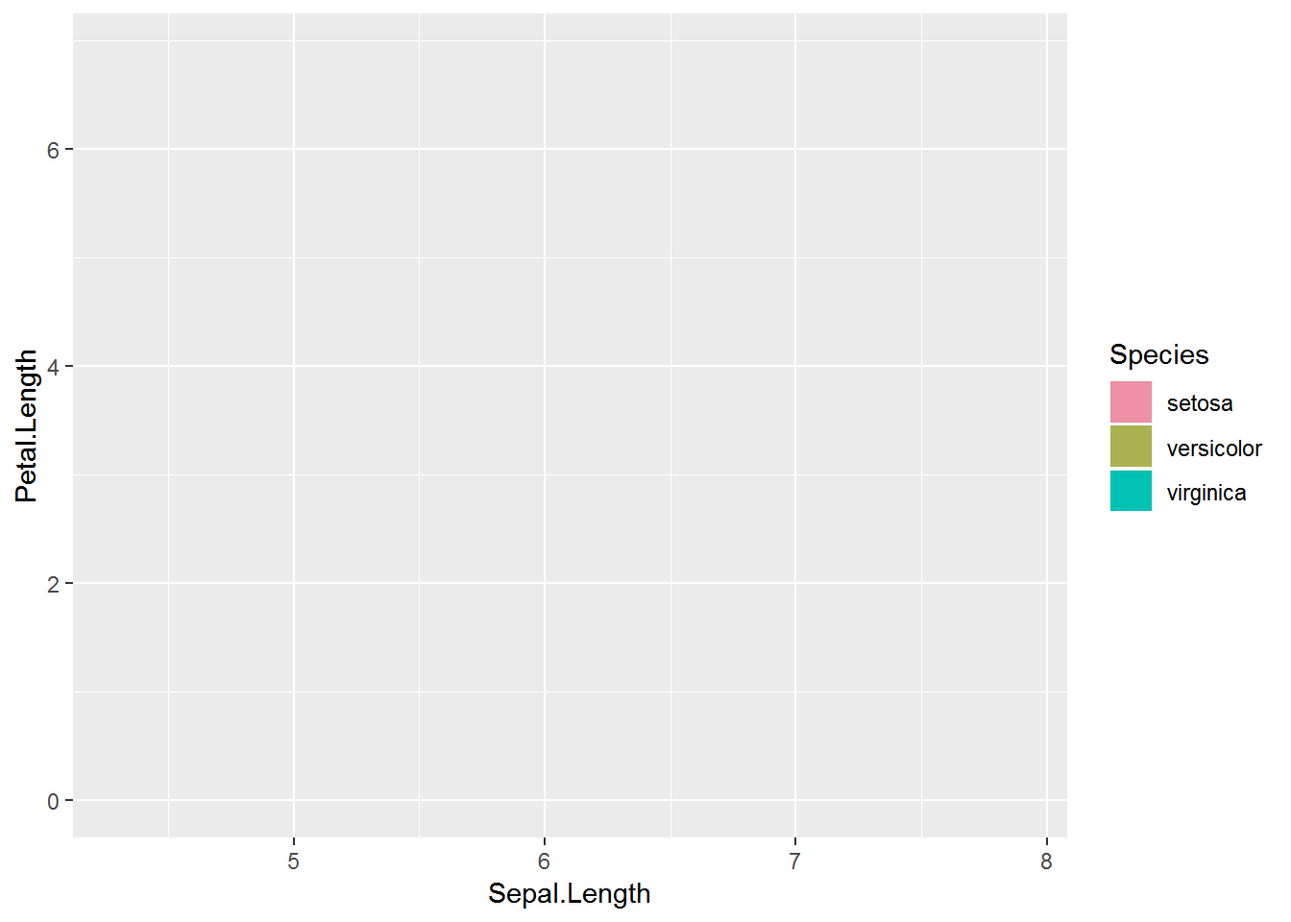
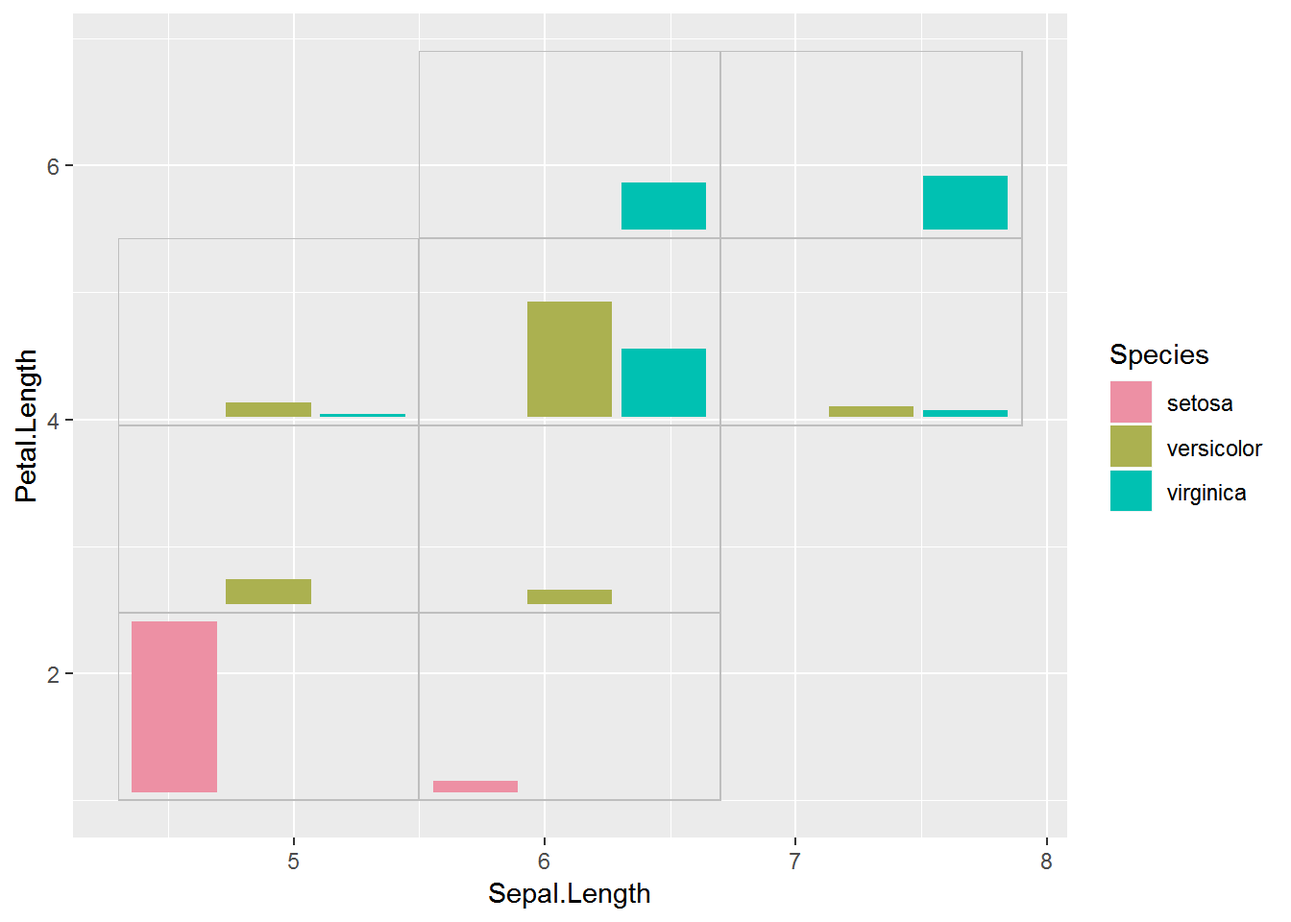
More edits of embedded plots post and push to website for first time

diff --git a/content/post/2019-04-22-embedding-subplots.html b/content/post/2019-04-22-embedding-subplots.html
@@ -8,18 +8,15 @@ categories:
 tags:
   - ggplot2
   - purrr
-draft: TRUE
-description: "When I first learned about embedding many small subplots into a larger plot as a way to visualize large datasets it could be done in ggplot2 via package ggsubplot.  Embedding subplots is still possible with the annotation_custom() function.  Many subplots can be made and then added to a plot via loops.  I demonstrate one approach to do this."
+draft: FALSE
+description: "I first learned about embedding many small subplots into a larger plot as a way to visualize large datasets with package ggsubplot.  Embedding subplots is still possible in ggplot2 today with the annotation_custom() function.  I demonstrate one approach to do this, making many subplots in a loop and then adding them to the larger plot."
 ---
 
 
 
-<p>This quarter I’m doing a small reading and conference discussion group on data visualization with graduate students, partially based on the two recent data visualization books written by <a href="https://kieranhealy.org/publications/dataviz/">Kieran Healy</a> and <a href="https://serialmentor.com/dataviz/">Claus Wilke</a>. The ultimate goal is to have each student work on a graphic with their own data.</p>
-<p>During discussions on what sort of graphic each student should make, the idea of embedded plots for visualizing a large dataset that has a problem with overplotting came up. I first learned about embedded graphics from package <strong>ggsubplot</strong>. You can still see <a href="https://blog.revolutionanalytics.com/2012/09/visualize-complex-data-with-subplots.html">an old post</a> about that package and about embedded graphics in general. However, <strong>ggsubplot</strong> is no longer maintained and doesn’t work with current versions of <strong>ggplot2</strong>.</p>
-<p>Below is an example of an embedded plot of the <code>diamonds</code> dataset from that blog post. You can see there are small subplots showing summarized data placed within the larger plot. This can be useful to show patterns in for large datasets like <code>diamonds</code>. Embedded plots can also work well on maps.</p>
-<p><img src="https://revolution-computing.typepad.com/.a/6a010534b1db25970b0177448319ad970d-800wi" /><!-- --></p>
-<p>I poked around a bit, and found that <code>annotation_custom()</code> is the go-to function for embedding plots in a <strong>ggplot2</strong> graphic these days. Since embedded plots like the one above involve making and adding many subplots, generally we’ll need some sort of looping to be efficient. I found a couple of recent examples for how to tackle these plots on Stack Overflow <a href="https://stackoverflow.com/a/44125392/2461552">here</a> and <a href="https://stackoverflow.com/a/45417727/2461552">here</a>.</p>
-<p>I’m going to work through an example of embedding subplots using the same kind of approach outlined in those answers.</p>
+<p>The idea of embedded plots for visualizing a large dataset that has an overplotting problem recently came up in some discussions with students. I first learned about embedded graphics from package <strong>ggsubplot</strong>. You can still see <a href="https://blog.revolutionanalytics.com/2012/09/visualize-complex-data-with-subplots.html">an old post</a> about that package and about embedded graphics in general, with examples. However, <strong>ggsubplot</strong> is no longer maintained and doesn’t work with current versions of <strong>ggplot2</strong>.</p>
+<p>I poked around a bit, and found that <code>annotation_custom()</code> is the go-to function for embedding plots in a <strong>ggplot2</strong> graphic. I found a couple of recent examples for how to tackle these plots in <strong>ggplot2</strong> on Stack Overflow <a href="https://stackoverflow.com/a/44125392/2461552">here</a> and <a href="https://stackoverflow.com/a/45417727/2461552">here</a>.</p>
+<p>I’m going to work through an example of embedding subplots using the same kind of looping approach outlined in those answers.</p>
 <div id="r-packages" class="section level1">
 <h1>R packages</h1>
 <p>First I’ll load the R packages I’m using today. All plotting is done via <strong>ggplot2</strong>, I do data manipulation with <strong>dplyr</strong> and <strong>tidyr</strong>, and <strong>purrr</strong> is both for looping to make the subplots and for getting the subplots into <code>annotation_custom()</code> layers.</p>
@@ -30,10 +27,10 @@ library(purrr) # 0.3.2</code></pre>
 </div>
 <div id="cutting-continuous-variables-into-evenly-spaced-categories" class="section level1">
 <h1>Cutting continuous variables into evenly-spaced categories</h1>
-<p>Binning the continuous variables on the axis of the larger plot to make the subplots is an additional complication that I didn’t see covered in those Stack Overflow answers. That’s the first thing I wanted to grapple with.</p>
-<p>I thought it made the most sense to have all the subplots be the same size and so wanted evenly sized <em>bins</em> or groups. The range of values for of each bin for a particular variable can be based on the total range of the variable and the desired number of groups.</p>
-<p>Binning into even-length groups is a job for <code>cut()</code>. Since I’m going to need the minimum and maximum value of each group to place the subplots along the axes of the larger plot, rather than using <code>cut()</code> directly I made a function built it. While information on the range encompassed by a group can be pulled from the default <code>cut()</code> bin labels, I didn’t like how <code>cut()</code> rounded those values.</p>
-<p>My function <code>cuteven()</code>, takes a continuous variable and returns a variable cut into <code>ngroups</code> bins. The labels of the resulting groups are the unrounded minimum and maximum value of each one, with the values separated by commas.</p>
+<p>Binning the continuous variables that will be on the axes of the larger plot in order to make separate datasets for each subplot is the first step in this process.</p>
+<p>I thought it made the most sense to make all the subplots the same size in the final plot and so I wanted to make evenly sized <em>bins</em> or groups. The range of values in each bin can then be based on the total range of the variable of interest and the desired number of groups.</p>
+<p>Binning into even-length groups is a job for <code>cut()</code>. Since I’m going to need the minimum and maximum value of each group to place the subplots along the axes of the larger plot, rather than using <code>cut()</code> directly I made a function built around it. While information on the range encompassed by a group can be pulled from the default <code>cut()</code> bin labels, I didn’t like how <code>cut()</code> rounded those values.</p>
+<p>My function, <code>cuteven()</code>, takes a continuous variable and returns a variable cut into <code>ngroups</code> bins. The labels for the new groups are the unrounded minimum and maximum value within each group, with the values separated by commas.</p>
 <p>I use <code>include.lowest = TRUE</code> in <code>cut()</code> is to make sure the minimum value in the dataset is included in the first group.</p>
 <pre class="r"><code>cuteven = function(variable, ngroups) {
      seq_all = seq(min(variable), max(variable), length.out = ngroups + 1)
@@ -42,7 +39,7 @@ library(purrr) # 0.3.2</code></pre>
          labels = paste(seq_all[-(ngroups + 1)], seq_all[-1], sep = &quot;,&quot;),
          include.lowest = TRUE)
 }</code></pre>
-<p>Let’s test the function by cutting <code>Sepal.Length</code> from the <code>iris</code> dataset into 3 groups. The new, categorical variable has three categories, labeled with the minimum and maximum values in each.</p>
+<p>I’ll test the function by cutting <code>Sepal.Length</code> from the <code>iris</code> dataset into 3 groups. The new, categorical variable has three categories, labeled with the minimum and maximum values in each.</p>
 <pre class="r"><code>with(iris, cuteven(Sepal.Length, ngroups = 3) )</code></pre>
 <pre><code>#   [1] 4.3,5.5 4.3,5.5 4.3,5.5 4.3,5.5 4.3,5.5 4.3,5.5 4.3,5.5 4.3,5.5
 #   [9] 4.3,5.5 4.3,5.5 4.3,5.5 4.3,5.5 4.3,5.5 4.3,5.5 5.5,6.7 5.5,6.7
@@ -67,9 +64,9 @@ library(purrr) # 0.3.2</code></pre>
 </div>
 <div id="categorizing-the-axis-variables" class="section level1">
 <h1>Categorizing the axis variables</h1>
-<p>While these embedded plots can be useful for large datasets, I’m going demonstrate the process with a relatively small dataset.</p>
-<p>I will embed subplots on a larger plot based on the <code>iris</code> data, showing <code>Sepal.Length</code> on the x axis and <code>Petal.Length</code> on the y axis. My first step is to categorize those variables with <code>cuteven()</code>. I’m going to make three groups for <code>Sepal.Length</code> and four groups for <code>Petal.Length</code>.</p>
-<p>I cut both variables within <code>mutate()</code> and add them to <code>iris</code>. I give the new variables generic names that indicate which variable is <code>x</code> and which is <code>y</code>.</p>
+<p>While these embedded plots can be useful for large datasets, I’m going demonstrate the process on a relatively small dataset. Here I will embed subplots on a larger plot based on the <code>iris</code> data. The variable <code>Sepal.Length</code> will be on the x axis and <code>Petal.Length</code> on the y axis.</p>
+<p>My first step is to categorize those variables with <code>cuteven()</code>. I’m going to make three groups for <code>Sepal.Length</code> and four groups for <code>Petal.Length</code>.</p>
+<p>I cut both variables within <code>mutate()</code> and add them to <code>iris</code>. I give the new variables generic names that indicate which variable is on the <code>x</code> axis and which on the <code>y</code>.</p>
 <pre class="r"><code>iris = mutate(iris,
                 group_x = cuteven(Sepal.Length, 3),
                 group_y = cuteven(Petal.Length, 4) )
@@ -87,10 +84,9 @@ glimpse(iris)</code></pre>
 </div>
 <div id="extracting-the-coordinates-for-each-subplot" class="section level1">
 <h1>Extracting the coordinates for each subplot</h1>
-<p>We’ll need the minimum and maximum value per group for each axis variable in order to place the subplot in the larger plot with <code>annotation_custom()</code>. Since the labels of the new variables contain this info separated by a comma, we can use <code>separate()</code> to extract the coordinate information from the labels into separate columns.</p>
+<p>I need the minimum and maximum value per group for each axis variable in order to place the subplot in the larger plot with <code>annotation_custom()</code>. Since the labels of the new variables contain this info separated by a comma, I can use <code>separate()</code> to extract the coordinate information from the labels into separate columns.</p>
 <p>Since I have two group variables, one for each axis, I end up using <code>separate()</code> twice. I again make the names of the new columns in <code>into</code> based on which axis I’ll be plotting that variable on.</p>
-<p>Since these coordinates are for numeric axes I use <code>convert = TRUE</code> to convert the values from categorical to numerical.</p>
-<p>When this step is complete we’ll have coordinates to indicate where each corner of a subplot will be placed within the larger plot. Unique combinations of the four variables define each group we want to make a subplot for.</p>
+<p>When this step is complete I’ll have coordinates to indicate where each corner of a subplot will be placed within the larger plot. Unique combinations of the four coordinate variables define each group I want to make a subplot for.</p>
 <pre class="r"><code>iris = iris %&gt;%
      separate(group_x, into = c(&quot;min_x&quot;, &quot;max_x&quot;), 
               sep = &quot;,&quot;, convert = TRUE) %&gt;%
@@ -113,9 +109,9 @@ glimpse(iris)</code></pre>
 <div id="bar-plot-subplots" class="section level1">
 <h1>Bar plot subplots</h1>
 <p>Next I’m going to figure out what I want my subplots to look like. I’m going to start with bar plots to count up the number of each species in each group.</p>
-<p>Since I will be making many plots with the same look I’ll create a function for the task. I like to work out what I want the plot to look like on a single subset of the data before making the function While you can’t see it here, this is an iterative process. I often have to come back and tweak the plot once I’ve made test subplots and embedded them.</p>
-<p>In this case, I want all the plots to have the same x and y axes. Since the y axis is counts, I need to calculate the maximum number of species across groups so I can set the y axis limits.</p>
-<p>The maximum count is <code>47</code>, so that will be my upper axis limit. Bar plots always start at 0.</p>
+<p>Since I will be making many similar plots I’ll create a function to use for the plotting. I always work out what I want the plot to look like on a single subset of the data before making the function.</p>
+<p>In this case, I want all the plots to have the same x and y axes. The y axis of my bar plot is based on counts, so I need to calculate the maximum number of species across groups so I can set the upper y axis limit for all plots to that value.</p>
+<p>The maximum count is <code>47</code>, so that will be my upper axis limit. Bar plots start at <code>0</code>.</p>
 <pre class="r"><code>iris %&gt;%
      group_by(min_x, max_x, min_y, max_y, Species) %&gt;%
      count() %&gt;%
@@ -127,8 +123,8 @@ glimpse(iris)</code></pre>
 # 1   4.3   5.5     1  2.48 setosa     47</code></pre>
 <p>In case a species is missing from one of the subplot groups I’ll define the <code>limits</code> for the x axis in <code>scale_x_discrete()</code>. This forces each plot to have the same x axis breaks.</p>
 <p>I’ll be removing all axis labels, etc., via <code>theme_void()</code> so that the subplots fit nicely into the larger plot. I will add an outline around the plot, though.</p>
-<p>I use <code>fill</code> to color the bars by species and will add a legend to the large plot since there are no x axis labels on the subplot. I suppress the legend in the subplots.</p>
-<p>I set explicit colors in <code>scale_fill_manual()</code> (colors taken <a href="http://colorspace.r-forge.r-project.org/articles/hcl_palettes.html#qualitative-palettes">from here</a>) so all the plots will have the same color scheme.</p>
+<p>I use <code>fill</code> to color the bars by species since there will be no x axis labels on the subplots. I suppress the legend, as well, and will add a legend to the large plot instead.</p>
+<p>I set explicit colors in <code>scale_fill_manual()</code> (colors taken <a href="http://colorspace.r-forge.r-project.org/articles/hcl_palettes.html#qualitative-palettes">from here</a>) so all the subplots will have the same color scheme.</p>
 <p>Here is my test plot for one group. This particular group only has one species in it.</p>
 <pre class="r"><code>ggplot(data = filter(iris, max_x &lt;= 5.5, max_y &lt;= 2.475), 
        aes(x = Species, fill = Species) ) +
@@ -142,9 +138,8 @@ glimpse(iris)</code></pre>
      theme(panel.border = element_rect(color = &quot;grey&quot;,
                                        fill = &quot;transparent&quot;) ) +
      ylim(0, 47)</code></pre>
-<p><img src="/post/2019-04-22-embedding-subplots_files/figure-html/unnamed-chunk-8-1.png" width="672" /></p>
-<p>Once I have the plot worked out for one group I put the code into a function. Here I name the function <code>barfun</code>. In this case the function takes only a dataset, since I’m hard-coding in all the axis variables.</p>
-<p>This function will allow me to loop through all the data subsets and make a bar plot for each one.</p>
+<p><img src="/post/2019-04-22-embedding-subplots_files/figure-html/unnamed-chunk-7-1.png" width="672" /></p>
+<p>Once I have the plot worked out for one group I put the code into a function, <code>barfun</code>. In this case the function takes only a dataset, since I’m hard-coding in all the axis variables, limits, etc.</p>
 <pre class="r"><code>barfun = function(data) {
      ggplot(data = data, 
             aes(x = Species, fill = Species) ) +
@@ -161,11 +156,11 @@ glimpse(iris)</code></pre>
 }</code></pre>
 <p>Does this function make the same plot I made manually? Yep. 👍</p>
 <pre class="r"><code>barfun(data = filter(iris, max_x &lt;= 5.5, max_y &lt;= 2.475) )</code></pre>
-<p><img src="/post/2019-04-22-embedding-subplots_files/figure-html/unnamed-chunk-10-1.png" width="672" /></p>
+<p><img src="/post/2019-04-22-embedding-subplots_files/figure-html/unnamed-chunk-9-1.png" width="672" /></p>
 </div>
 <div id="make-the-subplots" class="section level1">
 <h1>Make the subplots</h1>
-<p>Now I’m ready to make the subplots! 😆.</p>
+<p>I’m ready to make the subplots!</p>
 <p>I’ll loop through each subset of data and plot it with my function.</p>
 <p>Since I’m going to need those coordinates for subplot placement later I decided that the most straightforward way to do this is to group by the unique combinations of coordinates and then <em>nest</em> the dataset. When nesting, the dataset that contains the data to be plotted is placed in a column called <code>data</code>.</p>
 <p>I loop through each dataset in <code>data</code> with <code>map()</code> within <code>mutate()</code>. The new column containing the plots is named <code>subplots</code>.</p>
@@ -187,24 +182,24 @@ allplots</code></pre>
 # 7   5.5   6.7  5.42  6.9  &lt;tibble [13 x 5]&gt; &lt;S3: gg&gt;
 # 8   6.7   7.9  3.95  5.42 &lt;tibble [5 x 5]&gt;  &lt;S3: gg&gt;
 # 9   6.7   7.9  5.42  6.9  &lt;tibble [15 x 5]&gt; &lt;S3: gg&gt;</code></pre>
-<p>Here’s a couple of the plots. The first one should look fairly familiar.</p>
+<p>Here’s a couple of the plots. The first one should look familiar.</p>
 <pre class="r"><code>allplots$subplots[[1]]</code></pre>
-<p><img src="/post/2019-04-22-embedding-subplots_files/figure-html/unnamed-chunk-12-1.png" width="672" /></p>
+<p><img src="/post/2019-04-22-embedding-subplots_files/figure-html/unnamed-chunk-11-1.png" width="672" /></p>
 <pre class="r"><code>allplots$subplots[[6]]</code></pre>
-<p><img src="/post/2019-04-22-embedding-subplots_files/figure-html/unnamed-chunk-12-2.png" width="672" /></p>
+<p><img src="/post/2019-04-22-embedding-subplots_files/figure-html/unnamed-chunk-11-2.png" width="672" /></p>
 </div>
 <div id="putting-subplots-into-annotation_custom" class="section level1">
 <h1>Putting subplots into annotation_custom()</h1>
-<p>Now I need to make each of these plots a <em>grob</em> (graphical object) and pass it into <code>annotation_custom()</code> for adding to the larger plot. The coordinate columns will be passed to the <code>xmin</code>, <code>xmax</code>, <code>ymin</code>, <code>ymax</code> arguments in <code>annotation_custom()</code>. This is how we indicate where each subplot should be placed in the larger plot.</p>
-<p>I want to use <code>annotation_custom()</code> with each subplot and coordinates from each row of the dataset. Looping <em>row-wise</em> through a dataset usually indicates that I’ll want to use the <code>pmap()</code> function.</p>
-<p>Since I’ll be working with five columns simultaneously in this step I decided to make a function prior to looping.</p>
-<p>Notice I put my arguments of the function in the same order as they appear in the dataset and <em>they have the same names as the columns of the dataset</em>. I did this on purpose for ease of working with <code>pmap()</code>. I name this function <code>grobfun</code>.</p>
+<p>Next I need to make each of these plots a <em>grob</em> (graphical object) and pass it into <code>annotation_custom()</code>. The coordinates for each subplot will be passed to the <code>xmin</code>, <code>xmax</code>, <code>ymin</code>, <code>ymax</code> arguments in <code>annotation_custom()</code>, which indicate where each subplot should be placed in the larger plot.</p>
+<p>Since I want to pass the <code>subplots</code> column as well as the four coordinates columns to <code>annotation_custom()</code> I will loop through <code>allplots</code> <em>row-wise</em>. I can use the <code>pmap()</code> function for looping through the rows of a dataset.</p>
+<p>Since I’ll be working with five columns simultaneously in this step I decided to make a function prior to looping, which I name <code>grobfun</code>.</p>
+<p>Notice I put my arguments of the function in the same order as they appear in the dataset and <em>they have the same names as the columns of the dataset</em>. I did this on purpose for ease of working with <code>pmap()</code>.</p>
 <pre class="r"><code>grobfun = function(min_x, max_x, min_y, max_y, subplots) {
      annotation_custom(ggplotGrob(subplots),
                        xmin = min_x, ymin = min_y,
                        xmax = max_x, ymax = max_y)
 }</code></pre>
-<p>I no longer need the <code>data</code> column, so I remove it to end up with only the columns I need for the <code>grobfun()</code> function I made. This isn’t strictly necessary, but makes working with <code>pmap()</code> easier.</p>
+<p>I no longer need the <code>data</code> column, so I remove it to end up with only the columns I need to pass to the <code>grobfun()</code> function. This isn’t strictly necessary, but I find it makes working with <code>pmap()</code> easier.</p>
 <p>The dot, <code>.</code>, indicates I’m passing the entire dataset to <code>pmap()</code> and so looping through it row-wise.</p>
 <p>I find this can take a little time to run when doing many subplots.</p>
 <pre class="r"><code>( allgrobs = allplots %&gt;%
@@ -225,8 +220,9 @@ allplots</code></pre>
 </div>
 <div id="making-the-large-plot" class="section level1">
 <h1>Making the large plot</h1>
-<p>I haven’t actually made the plot I’m going to embed plots into. This will be a blank plot with <code>Sepal.Length</code> on the x axis and <code>Petal.Length</code> on the y axis that will have an overall legend for <code>fill</code>.</p>
+<p>I haven’t actually made the plot I’m going to embed plots into yet. This will be a blank plot with <code>Sepal.Length</code> on the x axis and <code>Petal.Length</code> on the y axis with a legend for <code>fill</code>.</p>
 <p>Adding on the overall legend to a blank plot involves a little trick with <code>geom_col()</code>, which was demonstrated in those Stack Overflow posts. (Thank goodness for SO, since I would have never figured it out otherwise 😜.)</p>
+<p>Here is the plot I will embed the subplots into.</p>
 <pre class="r"><code>( largeplot = ggplot(iris, aes(x = Sepal.Length, y = Petal.Length, fill = Species) ) +
      geom_blank() +
      geom_col( aes(Inf, Inf) ) +
@@ -234,29 +230,29 @@ allplots</code></pre>
                                        &quot;versicolor&quot; = &quot;#ABB150&quot;,
                                        &quot;virginica&quot; = &quot;#00C1B2&quot;) ) )</code></pre>
 <pre><code># Warning: Removed 149 rows containing missing values (geom_col).</code></pre>
-<p><img src="/post/2019-04-22-embedding-subplots_files/figure-html/unnamed-chunk-15-1.png" width="672" /></p>
+<p><img src="/post/2019-04-22-embedding-subplots_files/figure-html/unnamed-chunk-14-1.png" width="672" /></p>
 </div>
 <div id="embedding-the-subplots" class="section level1">
 <h1>Embedding the subplots</h1>
-<p>Last step! We can now add the list of subplots in <code>annotation_custom()</code> to the larger plot. 🎉 There was a little extra space on the y axis that I removed by setting the axis limits.</p>
-<p>I think this looks nice with evenly spaced subplots but there may be times unevenly spaced subplots is useful. In that case you could cut the variables into uneven groups.</p>
+<p>Last step! I can now add the list of subplots in <code>annotation_custom()</code> to the larger plot. 🎉</p>
+<p>There was a little extra space on the y axis that I removed by setting the axis limits.</p>
+<p>I think this looks nice with evenly spaced subplots but there may be times that having unevenly spaced subplots is desirable. In that case you could cut the variables into uneven groups.</p>
 <pre class="r"><code>largeplot +
      allgrobs$grobs +
      ylim(1, NA)</code></pre>
 <pre><code># Warning: Removed 150 rows containing missing values (geom_col).</code></pre>
-<p><img src="/post/2019-04-22-embedding-subplots_files/figure-html/unnamed-chunk-16-1.png" width="672" /></p>
+<p><img src="/post/2019-04-22-embedding-subplots_files/figure-html/unnamed-chunk-15-1.png" width="672" /></p>
 <p>After polishing this plot up a bit as desired, the final plot can be saved with <code>ggsave()</code>.</p>
 </div>
 <div id="continuous-distribution-subplots" class="section level1">
 <h1>Continuous distribution subplots</h1>
 <p>I’ve seen quite a few examples of embedded plots with bar plot or pie chart subplots to show patterns in the distribution of some categorical variable across the axis variables. But there’s no reason we can’t show the distribution of a third continuous variable.</p>
-<p>I found a lot of little details that took some work for “continuous distribution subplots”, which I go through below.</p>
-<p>I’ll make a histogram of the variable <code>Petal.Width</code> for the same subplot groups I used above.</p>
-<p>I’ll want the x axis to encompass the entire range of <code>Petal.Width</code> in each plot, so let’s check that range. These will be x axis limits (with some extra added to make sure all the histogram bars fit).</p>
+<p>I decided to make a histogram of the variable <code>Petal.Width</code> for the same subplot groups I used above. I found a lot of little details to work through when making subplots showing the distribution of a continuous variable, which I go through below.</p>
+<p>I’ll want the x axis to encompass the entire range of <code>Petal.Width</code> in each plot, so first I check that range. These will be x axis limits (with some extra added to make sure all the histogram bars fit).</p>
 <pre class="r"><code>range(iris$Petal.Width)</code></pre>
 <pre><code># [1] 0.1 2.5</code></pre>
 <p>I found the y axis to be a little trickier. I decided to show the bars as proportions of the maximum count with <code>ncount</code> instead of as a raw count. Since the height of bars is then a proportion of maximum instead of a count I added the sample size per group to the plot as text. I ended up putting this in a facet strip rather than within the plot. I went back and forth a bunch and am still not sure the final result is exactly what I want.</p>
-<p>I’ll base the color of the bars on <code>Petal.Width</code>, which can be done with <code>fill = stat(x)</code> to refer to the bins calculated by <code>geom_histogram()</code>.</p>
+<p>I’ll base the color of the bars on <code>Petal.Width</code>, which can be done with <code>fill = stat(x)</code>, to refer to the bins calculated by <code>geom_histogram()</code>.</p>
 <p>I’ll also need to set the <code>binwidth</code> to make the histogram bars the same width for each plot. I arbitrarily chose <code>0.25</code>. This is also what I used to pad the x axis limits to make sure all the bars show in every plot.</p>
 <p>Here is my example plot for the first group. As far as I can tell the warning message is spurious since all three bars that should be there are there.</p>
 <pre class="r"><code>ggplot(data = filter(iris, max_x &lt;= 5.5, max_y &lt;= 2.475),
@@ -270,7 +266,7 @@ allplots</code></pre>
      theme(panel.border = element_rect(color = &quot;grey&quot;,
                                        fill = &quot;transparent&quot;) )</code></pre>
 <pre><code># Warning: Removed 2 rows containing missing values (geom_bar).</code></pre>
-<p><img src="/post/2019-04-22-embedding-subplots_files/figure-html/unnamed-chunk-18-1.png" width="672" /></p>
+<p><img src="/post/2019-04-22-embedding-subplots_files/figure-html/unnamed-chunk-17-1.png" width="672" /></p>
 <p>And here’s the function to make histograms for each subplot dataset, which I name <code>histfun</code>.</p>
 <pre class="r"><code>histfun = function(data) {
      ggplot(data = data,
@@ -304,11 +300,11 @@ allplots</code></pre>
        geom_col( aes(Inf, Inf) ) +
        scale_fill_continuous(type = &quot;viridis&quot;) )</code></pre>
 <pre><code># Warning: Removed 149 rows containing missing values (geom_col).</code></pre>
-<p><img src="/post/2019-04-22-embedding-subplots_files/figure-html/unnamed-chunk-21-1.png" width="672" /></p>
-<p>And here’s the plot embedded with the <code>Petal.Width</code> distribution plots.</p>
+<p><img src="/post/2019-04-22-embedding-subplots_files/figure-html/unnamed-chunk-20-1.png" width="672" /></p>
+<p>And, finally, here’s the plot embedded with the <code>Petal.Width</code> distribution plots. 😄</p>
 <pre class="r"><code>largeplot2 +
      allgrobs_hist$grobs +
      ylim(1, NA)</code></pre>
 <pre><code># Warning: Removed 150 rows containing missing values (geom_col).</code></pre>
-<p><img src="/post/2019-04-22-embedding-subplots_files/figure-html/unnamed-chunk-22-1.png" width="672" /></p>
+<p><img src="/post/2019-04-22-embedding-subplots_files/figure-html/unnamed-chunk-21-1.png" width="672" /></p>
 </div>
